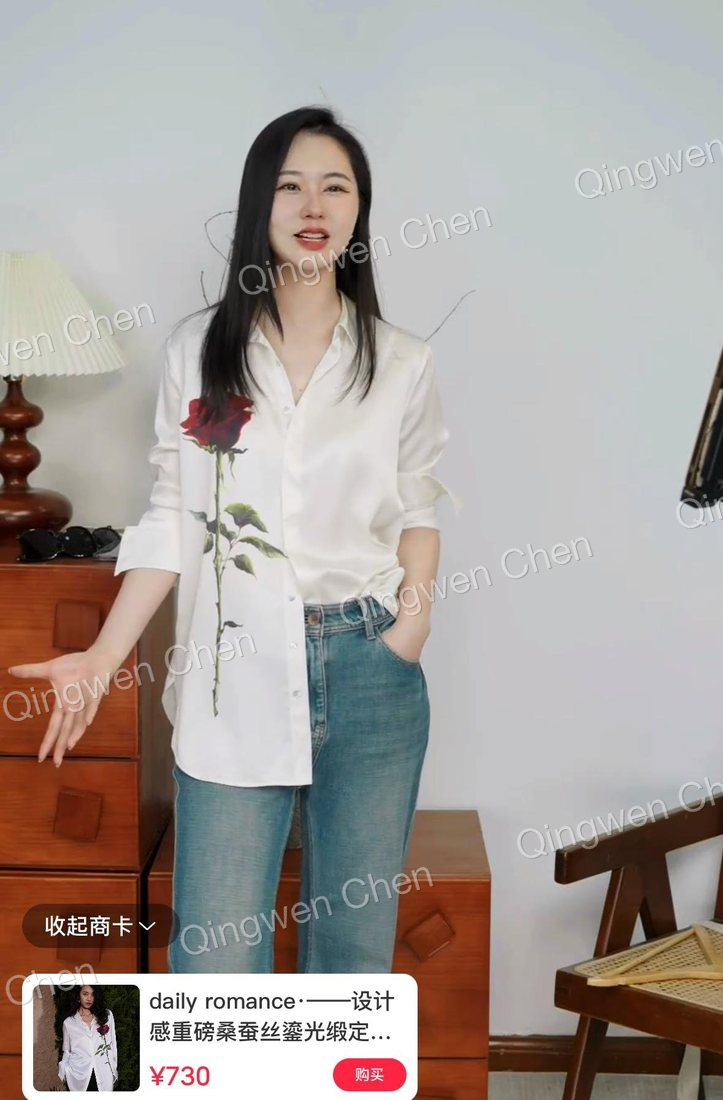
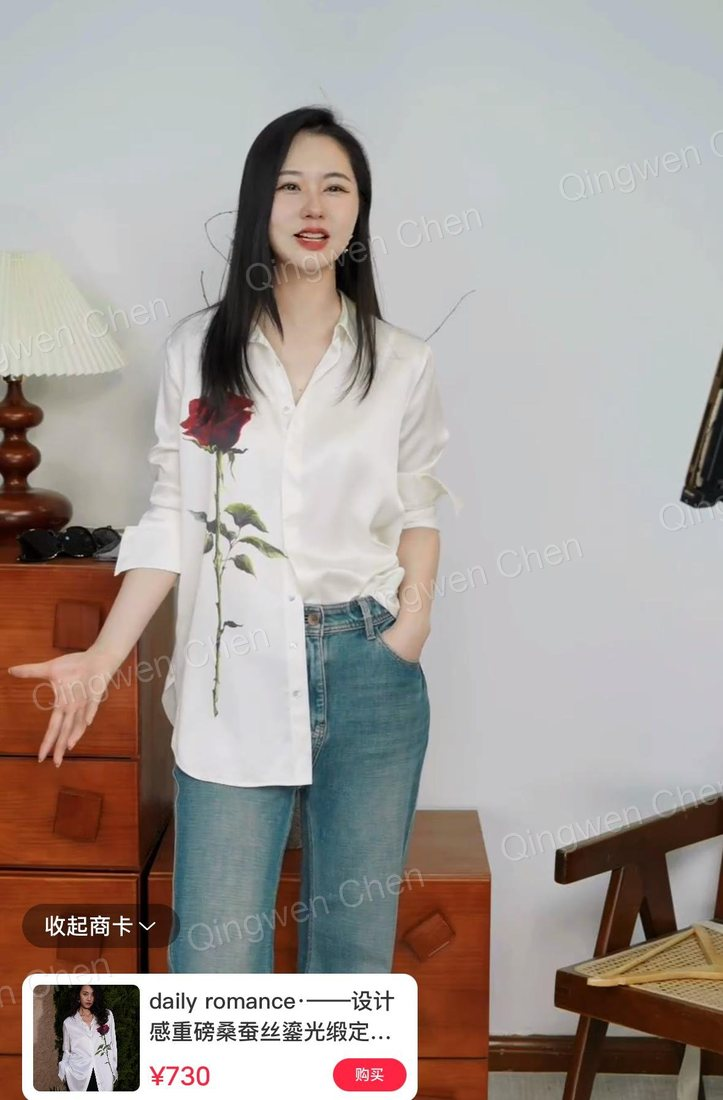
Soften 3-row Qingwen Chen watermark opacity on gallery photos

diff --git a/assets/js/app.js b/assets/js/app.js
@@ -159,7 +159,7 @@
       .map(
         (tile) => `
         <article class="spotlight-tile">
-          <img class="spotlight-tile__img" src="${escapeHtml(tile.image)}?wm=1" alt="${escapeHtml(t(tile.title))}" style="object-position:${escapeHtml(tile.pos || "center 20%")}" />
+          <img class="spotlight-tile__img" src="${escapeHtml(tile.image)}?wm=2" alt="${escapeHtml(t(tile.title))}" style="object-position:${escapeHtml(tile.pos || "center 20%")}" />
           <div class="spotlight-tile__scrim" aria-hidden="true"></div>
           <div class="spotlight-tile__content">
             <p class="spotlight-tile__eyebrow">${escapeHtml(t(tile.eyebrow))}</p>
@@ -229,7 +229,7 @@
         return `
           <button type="button" class="gallery-card" data-gallery-idx="${idx}" aria-label="${escapeHtml(caption)}">
             <span class="gallery-card__frame">
-              <img class="gallery-card__img" src="${escapeHtml(item.src)}?wm=1" alt="${escapeHtml(caption)}" style="object-position:${escapeHtml(pos)}" loading="lazy" />
+              <img class="gallery-card__img" src="${escapeHtml(item.src)}?wm=2" alt="${escapeHtml(caption)}" style="object-position:${escapeHtml(pos)}" loading="lazy" />
             </span>
             <span class="gallery-card__caption">${escapeHtml(caption)}</span>
           </button>
@@ -315,7 +315,7 @@
       <button type="button" class="lightbox__close" id="lb-close" aria-label="${escapeHtml(closeLabel)}">&times;</button>
       <button type="button" class="lightbox__nav lightbox__nav--prev" id="lb-prev" aria-label="${escapeHtml(prevLabel)}">&#8249;</button>
       <div class="lightbox__dialog">
-        <img class="lightbox__img" src="${escapeHtml(item.src)}?wm=1" alt="${escapeHtml(caption)}" />
+        <img class="lightbox__img" src="${escapeHtml(item.src)}?wm=2" alt="${escapeHtml(caption)}" />
         <div class="lightbox__bar">
           <span>${escapeHtml(caption)}</span>
           <span class="lightbox__counter">${state.lightboxIndex + 1} / ${items.length}</span>

diff --git a/index.html b/index.html
@@ -55,6 +55,6 @@
   <script src="assets/js/vendor/gsap.min.js"></script>
   <script src="assets/js/vendor/ScrollTrigger.min.js"></script>
   <script src="assets/js/site-data.js?v=19"></script>
-  <script src="assets/js/app.js?v=15"></script>
+  <script src="assets/js/app.js?v=16"></script>
 </body>
 </html>
